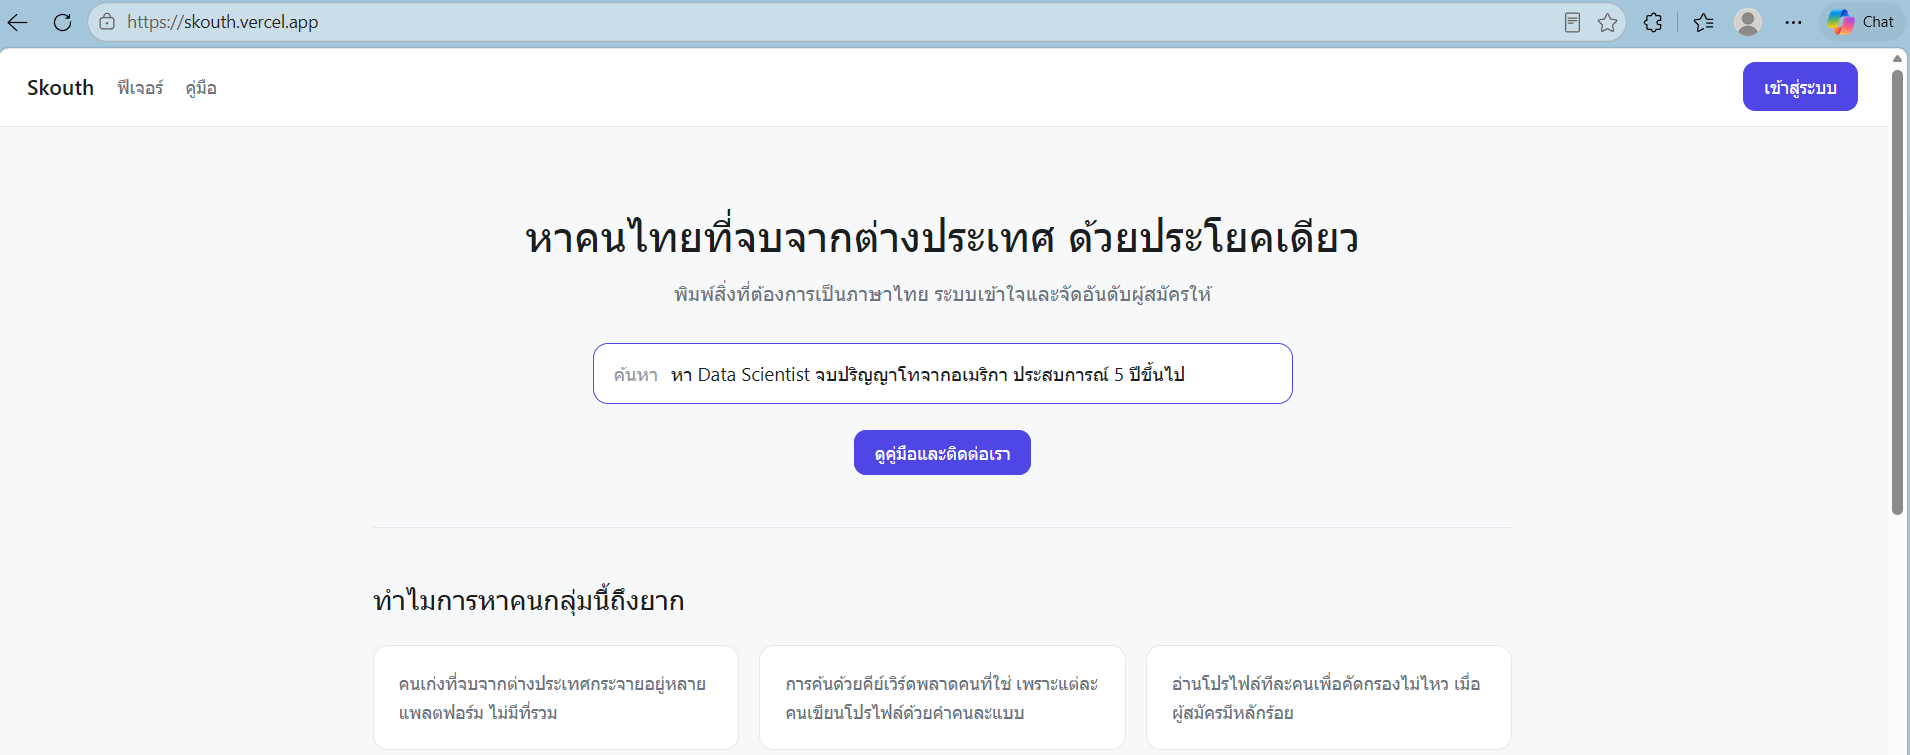
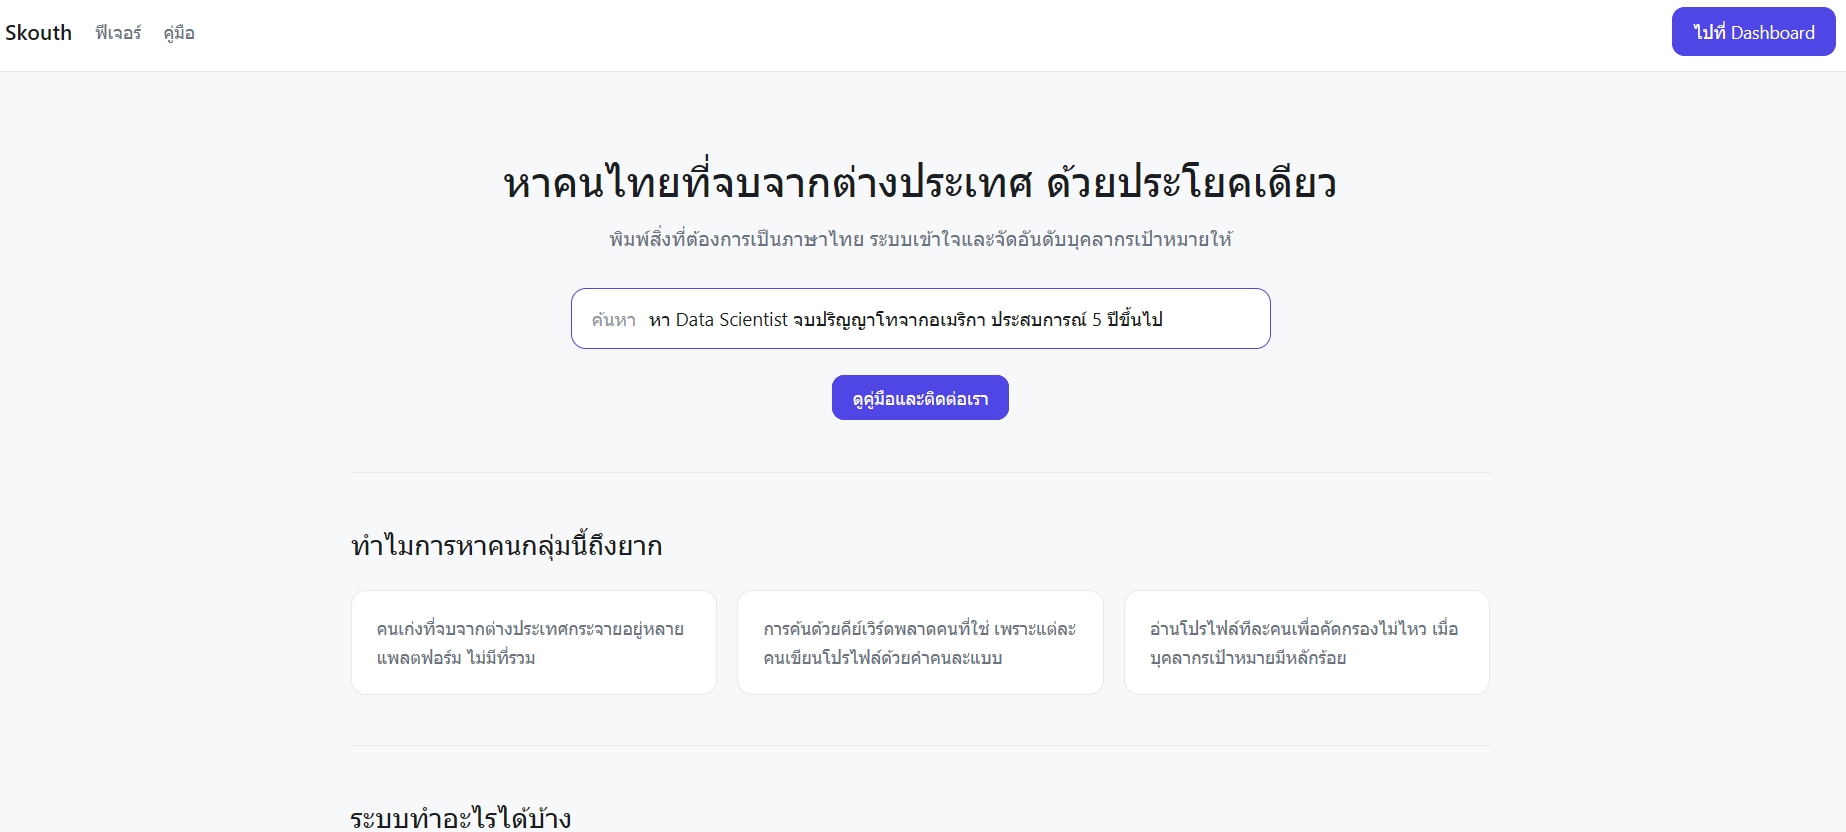
docs(help): อัปเดตภาพประกอบคู่มือหลังเปลี่ยนคำเป็น บุคลากรเป้าหมาย (เบลอข้อมูลส่วนตัวแล้ว)

diff --git a/lib/help/guide.ts b/lib/help/guide.ts
@@ -185,27 +185,30 @@ export type GuideImage = { src: string; caption: string; width: number; height: 
 
 export const GUIDE_IMAGES: Record<string, GuideImage[]> = {
   login: [
-    { src: '/help/home.png', caption: 'หน้าแรกของระบบ', width: 1910, height: 755 },
+    { src: '/help/home.png', caption: 'หน้าแรกของระบบ', width: 1846, height: 832 },
     { src: '/help/confirm.png', caption: 'หน้าหลังยืนยันอีเมล แจ้งว่าบัญชีรอผู้ดูแลระบบอนุมัติ', width: 1270, height: 293 },
     { src: '/help/login.png', caption: 'หน้าเข้าสู่ระบบ', width: 1919, height: 798 },
   ],
-  dashboard: [{ src: '/help/dashboard.png', caption: 'หน้า Dashboard และแถบเมนูด้านซ้าย', width: 1271, height: 447 }],
-  search: [{ src: '/help/search.png', caption: 'หน้าค้นหาบุคลากรเป้าหมาย แผงตัวกรอง และผลการค้นหา', width: 1627, height: 850 }],
-  candidate: [{ src: '/help/candidate.png', caption: 'หน้าบุคลากรเป้าหมายหลังกดประเมินความเหมาะสม', width: 1325, height: 485 }],
+  dashboard: [
+    { src: '/help/dashboard.png', caption: 'หน้า Dashboard สถิติภาพรวมและกราฟ', width: 1610, height: 620 },
+    { src: '/help/dashboard-activity.png', caption: 'Shortlist ของคุณ บุคลากรเป้าหมายที่เพิ่งดู และกิจกรรมของคุณ', width: 1611, height: 906 },
+  ],
+  search: [{ src: '/help/search.png', caption: 'หน้าค้นหาบุคลากรเป้าหมาย แผงตัวกรอง และผลการค้นหา', width: 1597, height: 880 }],
+  candidate: [{ src: '/help/candidate.png', caption: 'หน้ารายละเอียดบุคลากรเป้าหมาย ไทม์ไลน์ และช่องประเมินความเหมาะสม', width: 1602, height: 877 }],
   shortlist: [
     { src: '/help/shortlist-panel.png', caption: 'แผงบันทึกเข้า Shortlist', width: 871, height: 451 },
     { src: '/help/shortlists.png', caption: 'หน้า Shortlist', width: 1258, height: 593 },
   ],
-  jobs: [{ src: '/help/job.png', caption: 'หน้ารายละเอียดตำแหน่งงานและบุคลากรเป้าหมายที่เข้าเกณฑ์', width: 1292, height: 626 }],
-  self: [{ src: '/help/self.png', caption: 'หน้าประเมินตัวเองหลังกดยืนยันและวิเคราะห์', width: 1009, height: 768 }],
-  data: [{ src: '/help/candidates.png', caption: 'หน้าข้อมูลบุคลากรเป้าหมาย', width: 1622, height: 497 }],
+  jobs: [{ src: '/help/job.png', caption: 'หน้ารายละเอียดตำแหน่งงานและบุคลากรเป้าหมายที่เข้าเกณฑ์', width: 1612, height: 657 }],
+  self: [{ src: '/help/self.png', caption: 'หน้าประเมินตัวเอง เลือกอัปโหลดไฟล์ PDF หรือกรอกข้อมูลเอง', width: 1612, height: 407 }],
+  data: [{ src: '/help/candidates.png', caption: 'หน้าข้อมูลบุคลากรเป้าหมาย', width: 1612, height: 772 }],
   import: [
     { src: '/help/import.png', caption: 'หน้านำเข้าข้อมูล', width: 1273, height: 259 },
-    { src: '/help/xray.png', caption: 'แท็บค้นหาเพิ่มเติม (X-ray Search)', width: 968, height: 759 },
+    { src: '/help/xray.png', caption: 'แท็บค้นหาเพิ่มเติม (X-ray Search)', width: 1602, height: 871 },
   ],
-  admin: [{ src: '/help/admin.png', caption: 'หน้าจัดการผู้ใช้', width: 1247, height: 376 }],
-  settings: [{ src: '/help/settings.png', caption: 'หน้าตั้งค่า', width: 436, height: 827 }],
-  privacy: [{ src: '/help/privacy.png', caption: 'หน้านโยบายความเป็นส่วนตัว', width: 800, height: 715 }],
+  admin: [{ src: '/help/admin.png', caption: 'หน้าจัดการผู้ใช้', width: 1615, height: 861 }],
+  settings: [{ src: '/help/settings.png', caption: 'หน้าตั้งค่า', width: 856, height: 897 }],
+  privacy: [{ src: '/help/privacy.png', caption: 'หน้านโยบายความเป็นส่วนตัว', width: 1862, height: 812 }],
 }
 
 // ส่วนที่ 1 ของ docs/uat/skouth-uat.md — ต้องตรงกับไฟล์บนดิสก์เป๊ะ
